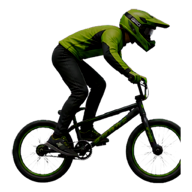
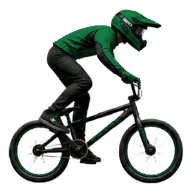
Restore both rider tires and use Evergreen source art on iOS

diff --git a/src/components/GoogleMapsTrackLayer.tsx b/src/components/GoogleMapsTrackLayer.tsx
@@ -87,8 +87,7 @@ import {
   ghostPlaybackGlow,
   ghostPlaybackHighlight,
 } from '../lib/ghosts';
-import { riderFallbackRigBaseAssetByColor, riderRigBaseAssetByColor } from '../lib/riderAssets';
-import { EVERGREEN_RIDER_FILTER } from '../lib/playerPalette';
+import { riderFallbackRigBaseAssetByColor } from '../lib/riderAssets';
 
 type GoogleMapsTrackLayerProps = {
   track: TrackRecord;
@@ -959,7 +958,7 @@ function drawRiderCrankAndLegRig(
   context.stroke();
 }
 
-function drawUprightRiderCanvas(
+export function drawUprightRiderCanvas(
   canvas: HTMLCanvasElement,
   image: HTMLImageElement,
   player: PlayerSlot,
@@ -985,9 +984,8 @@ function drawUprightRiderCanvas(
     ? riderMarkerMaximumShadowBlurPixels
     : riderMarkerShadowBlurPixels;
   context.shadowOffsetY = riderMarkerShadowOffsetYPixels;
-  context.filter = appearance !== 'ghost' && player.colorName === 'lime'
-    ? EVERGREEN_RIDER_FILTER
-    : 'none';
+  // Evergreen is baked into the source so iOS canvas filter support is irrelevant.
+  context.filter = 'none';
   context.drawImage(
     image,
     -riderMarkerDrawSize / 2,
@@ -1043,7 +1041,7 @@ async function uprightRiderIconUrl(
   animation: RiderAnimationState,
   appearance: RiderMarkerAppearance = 'live',
 ) {
-  const imageUrl = riderRigBaseAssetByColor[player.colorName];
+  const imageUrl = riderFallbackRigBaseAssetByColor[player.colorName];
   const orientation = uprightRiderOrientation(rotationDegrees);
   const leanBucket = riderLeanBucket(rotationDegrees);
   const cacheKey = `${appearance}:${player.colorName}:${player.accent}:${orientation.mirrored ? 'left' : 'right'}:${leanBucket}:${animation.crankStep}:${animation.wheelFrameIndex}`;
@@ -1201,7 +1199,7 @@ function createPersistentRiderOverlay(
     }
   };
 
-  void loadRiderImage(riderRigBaseAssetByColor[player.colorName])
+  void loadRiderImage(riderFallbackRigBaseAssetByColor[player.colorName])
     .then((image) => {
       if (disposed) {
         return;

diff --git a/tests/e2e/fixtures/rider-marker.ts b/tests/e2e/fixtures/rider-marker.ts
@@ -1,0 +1,15 @@
+import { drawUprightRiderCanvas } from '../../../src/components/GoogleMapsTrackLayer';
+import { riderFallbackRigBaseAssetByColor } from '../../../src/lib/riderAssets';
+import { canonicalPlayerAccent } from '../../../src/lib/playerPalette';
+import type { PlayerSlot } from '../../../src/types';
+document.body.style.cssText='font:16px system-ui;background:#ddd;color:#111;margin:12px';
+const colors=['lime','blue','red','yellow'] as const;
+const host=document.getElementById('riders')!;
+host.style.cssText='max-width:650px;display:grid;grid-template-columns:repeat(2,minmax(0,1fr));gap:8px';
+for (const [i,color] of colors.entries()) {
+ const canvas=document.createElement('canvas'); canvas.style.cssText='width:100%;background:#eee;border:1px solid #888';host.append(canvas);
+ canvas.setAttribute('aria-label',color==='lime'?'Evergreen rider':color+' rider');
+ const image=new Image(); image.src=riderFallbackRigBaseAssetByColor[color];
+ const player={id:i+1,colorName:color,accent:canonicalPlayerAccent(color),name:'Demo rider',deviceId:null} as PlayerSlot;
+ image.onload=()=>{const frame=(time:number)=>{drawUprightRiderCanvas(canvas,image,player,(time/30)%360,{crankAngleRadians:time/150,crankStep:0,pedaling:true,wheelFrameIndex:Math.floor(time/100)%4});requestAnimationFrame(frame)};requestAnimationFrame(frame)};
+}

diff --git a/src/components/GoogleMaps3DTrackLayer.tsx b/src/components/GoogleMaps3DTrackLayer.tsx
@@ -65,8 +65,7 @@ import {
   ghostPlaybackColorName,
   ghostPlaybackGlow,
 } from '../lib/ghosts';
-import { riderRigBaseAssetByColor } from '../lib/riderAssets';
-import { EVERGREEN_RIDER_FILTER } from '../lib/playerPalette';
+import { riderFallbackRigBaseAssetByColor } from '../lib/riderAssets';
 
 type GoogleMaps3DTrackLayerProps = {
   track: TrackRecord;
@@ -476,7 +475,7 @@ function createRiderContent(
   const image = document.createElement('img');
   image.className = 'map-3d-rider-image';
   image.alt = label;
-  image.src = riderRigBaseAssetByColor[
+  image.src = riderFallbackRigBaseAssetByColor[
     appearance === 'ghost' ? ghostPlaybackColorName : player.colorName
   ];
   image.style.display = 'block';
@@ -492,7 +491,7 @@ function createRiderContent(
     image.style.filter = `hue-rotate(-28deg) saturate(2.6) brightness(1.18) drop-shadow(0 0 5px ${ghostPlaybackGlow})`;
     image.style.opacity = '0.72';
   } else if (player.colorName === 'lime') {
-    image.style.filter = `${EVERGREEN_RIDER_FILTER} drop-shadow(0 3px 2px rgba(0,0,0,.42))`;
+    image.style.filter = 'drop-shadow(0 3px 2px rgba(0,0,0,.42))';
   }
   content.append(image);
   return content;

diff --git a/tests/unit/riderAssetBounds.test.ts b/tests/unit/riderAssetBounds.test.ts
@@ -76,6 +76,13 @@ describe('rider rig source assets', () => {
     // A long flat occupied edge means the rear tire was sliced before the
     // transparent padding was added. A complete curved wheel touches briefly.
     expect(longestOccupiedRunAtLeftEdge).toBeLessThanOrEqual(16);
+    let rightRun = 0;
+    let longestRightRun = 0;
+    for (let y = 0; y < image.height; y += 1) {
+      rightRun = image.data[((y * image.width) + maximumX) * 4 + 3] > 8 ? rightRun + 1 : 0;
+      longestRightRun = Math.max(longestRightRun, rightRun);
+    }
+    expect(longestRightRun).toBeLessThanOrEqual(16);
   });
 
   it.each(colors)('keeps the complete %s rider inside the 3D marker envelope while leaning', async (color) => {

diff --git a/tests/e2e/fixtures/rider-marker.html b/tests/e2e/fixtures/rider-marker.html
@@ -1,0 +1,1 @@
+<!doctype html><html><head><meta charset="utf-8"><meta name="viewport" content="width=device-width,initial-scale=1"><style>@media (orientation:landscape){#riders{grid-template-columns:repeat(4,minmax(0,1fr))!important}h1{font-size:20px}}</style></head><body><h1>Actual map rider animation</h1><p>Evergreen, blue, red, yellow · all crank phases and turns</p><div id="riders"></div><script type="module" src="./rider-marker.ts"></script></body></html>
